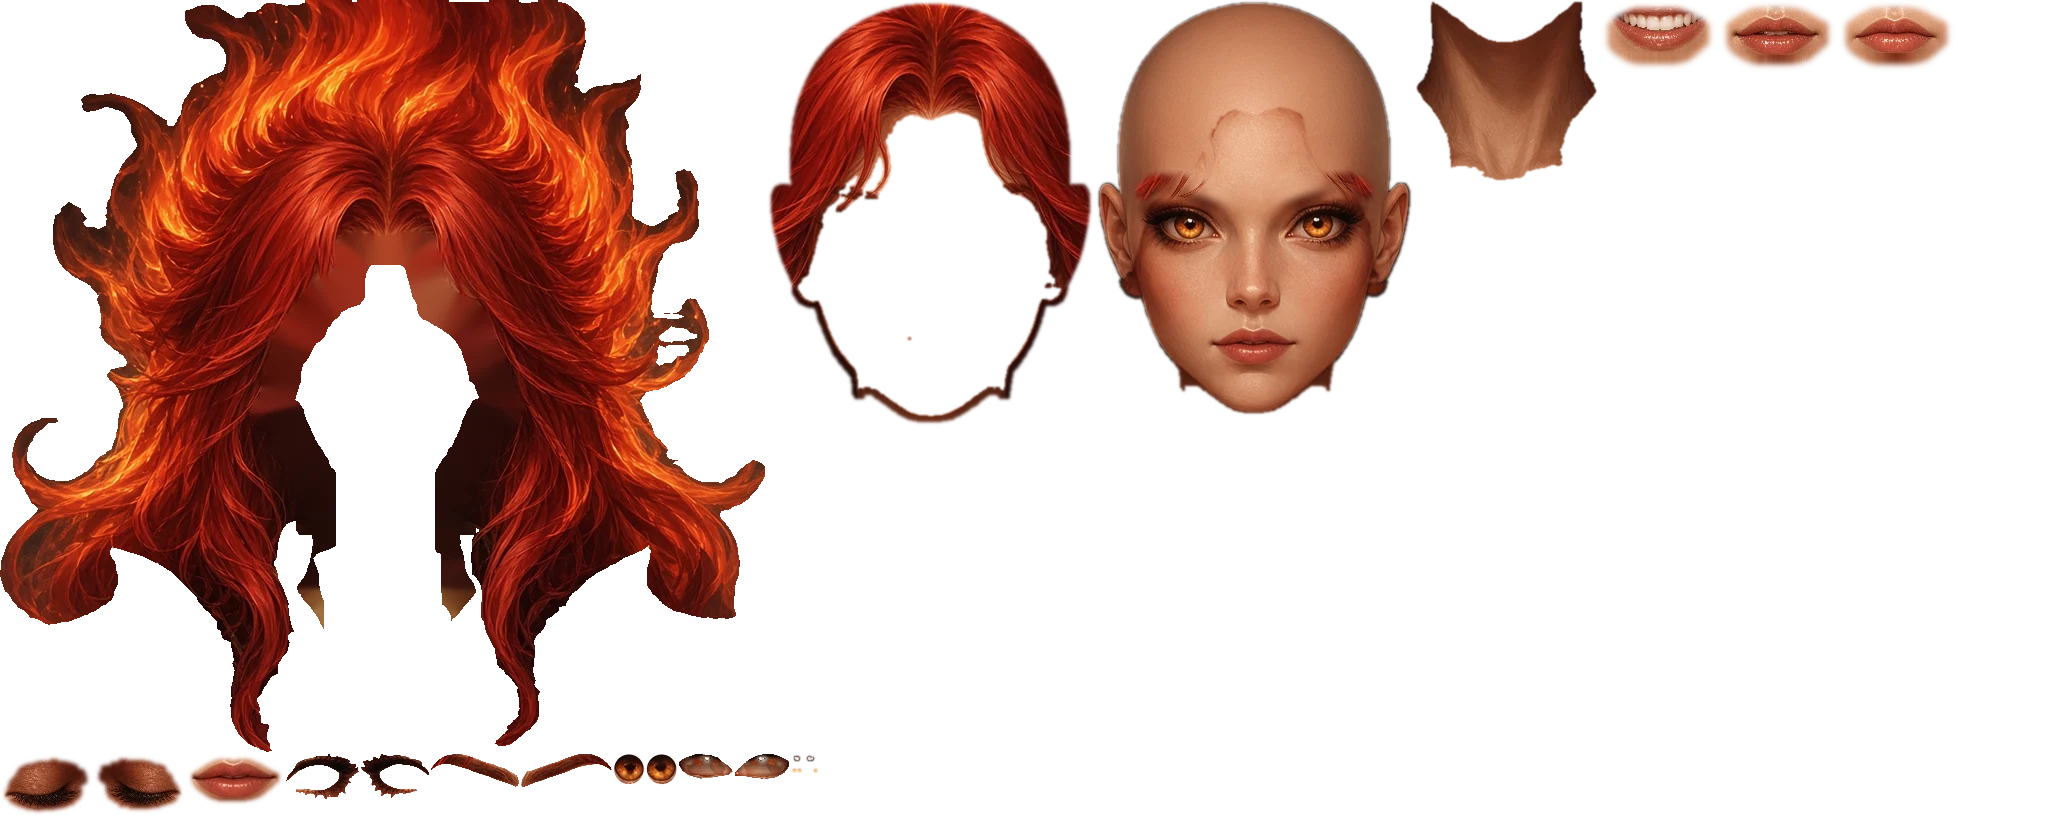
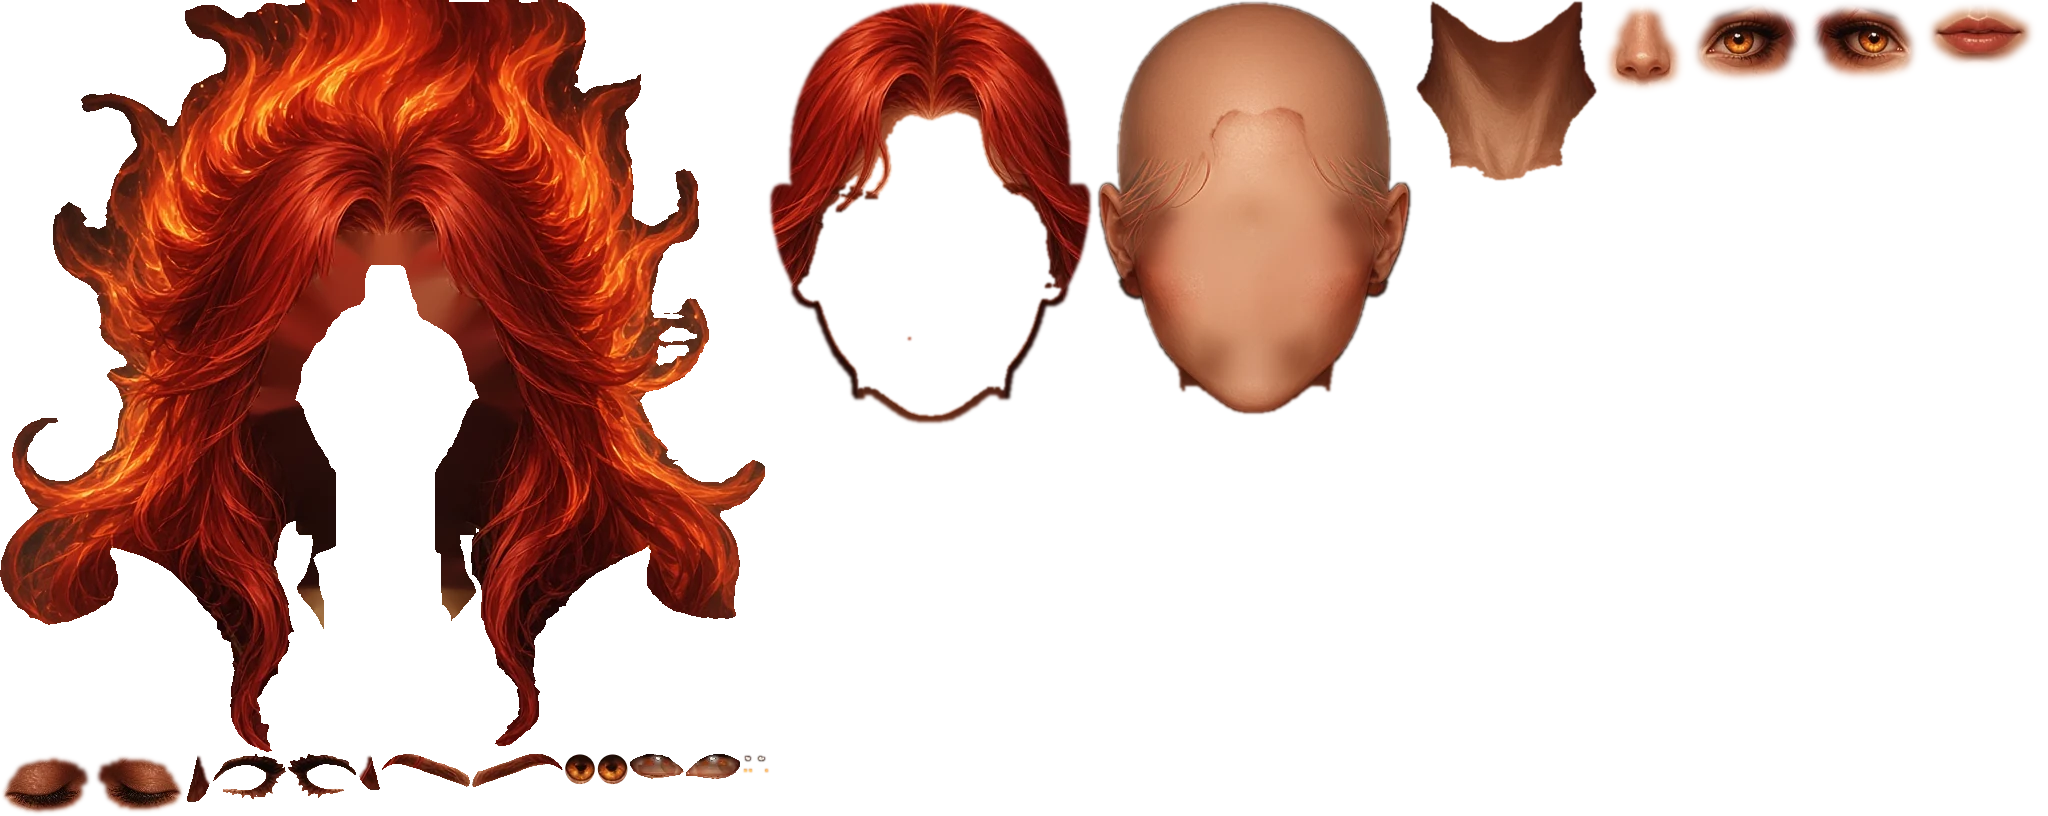
Лина: поворот головы цельными частями (параллакс, как в Rive) вместо растяжения

Changed region(s): [[0.7812, 0.0, 1.0, 0.1225], [0.5312, 0.2145, 0.6875, 0.4596], [0.0938, 0.9191, 0.4062, 1.0]]

diff --git a/demo/lina-live/index.html b/demo/lina-live/index.html
@@ -32,43 +32,34 @@
 const VS = `
 attribute vec2 aG;
 uniform vec4 uRamka, uUV;
-uniform float uTip;
-uniform vec2 uGol, uNos, uSdvig, uRes, uOff, uSway;
-uniform float uRoll, uScale, uFormaN, uRot, uSmirk, uFrown;
-uniform vec2 uUgol;      // уголок рта для ухмылки
-uniform vec4 uLico;      // центр, полуоси эллипса лица
-uniform vec2 uPivot, uRotC;
+uniform float uTip;           // 0 пласт, 1 часть головы, 2 передние волосы, 3 задние волосы, 5 рот
+uniform vec2 uGr, uSc, uScC;  // сдвиг группы при повороте, сжатие (дальний глаз) и его центр
+uniform vec2 uPre, uRotC;     // свой сдвиг до группы (взгляд радужки, подъём брови) и поворот брови
+uniform float uRot, uRoll, uScale, uSmirk, uFrown;
+uniform vec2 uRes, uOff, uPivot, uSway, uUgol;
 varying vec2 vUV, vP;
-float forma(vec2 p) {
-  vec2 d = (p - uLico.xy) / uLico.zw;
-  float r2 = dot(d, d);
-  return (pow(1. - min(r2, 1.), 2.) + .35 * pow(1. - min(r2 / 2.56, 1.), 2.)) / uFormaN;
-}
 vec2 povernut(vec2 p, vec2 c, float a) { float s = sin(a), k = cos(a); vec2 d = p - c; return c + vec2(d.x * k - d.y * s, d.x * s + d.y * k); }
 void main() {
   vec2 P = mix(uRamka.xy, uRamka.zw, aG);
-  vec2 Q = P;
-  if (uTip > .5 && uTip < 1.5) {                    // поверхность головы и всё, что на ней
-    vec2 du = P - uUgol;                            // ухмылка: уголок рта и щека над ним тянутся вверх — те же пиксели, без вклейки
-    Q += uSmirk * vec2(-3., -7.) * exp(-dot(du, du) / (2. * 15. * 15.));
-    vec2 d1 = P - vec2(867., 477.), d2 = P - vec2(945., 475.);   // злость: оба уголка вниз
-    Q += uFrown * vec2(1.5, 4.) * exp(-dot(d1, d1) / (2. * 13. * 13.)) + uFrown * vec2(-1.5, 4.) * exp(-dot(d2, d2) / (2. * 13. * 13.));
-    Q += forma(P) * vec2(uNos.x * uGol.x, uNos.y * uGol.y) + vec2(uGol.x * 3., uGol.y * 2.);
-    Q = povernut(Q, uPivot, uRoll);
-  } else if (uTip > 1.5 && uTip < 2.5) {            // передние пряди лежат на голове — двигаются как её поверхность (иначе
-    // из-под них выглядывает край черепа); ниже подбородка слабее, концы качаются
-    float pad = 1. - clamp((P.y - 470.) / 300., 0., .65);
-    Q += pad * (forma(P) * vec2(uNos.x * uGol.x, uNos.y * uGol.y) + vec2(uGol.x * 3., uGol.y * 2.));
-    Q = mix(Q, povernut(Q, uPivot, uRoll), pad);
-    Q.x += uSway.x * clamp((P.y - 330.) / 420., 0., 1.);
-  } else if (uTip > 2.5 && uTip < 3.5) {            // задние волосы: чуть в обратную сторону, концы качаются позже
-    Q += vec2(-uNos.x * .22 * uGol.x, -uNos.y * .12 * uGol.y);
-    Q.x += uSway.y * clamp((P.y - 330.) / 420., 0., 1.);
-  } else if (uTip > 3.5 && uTip < 4.5) {            // шея: сверху за головой, к ключицам сходит на нет
-    float v = 1. - clamp((P.y - 500.) / 170., 0., 1.);
-    Q += v * vec2(uNos.x * .14 * uGol.x + uGol.x * 2., uNos.y * .1 * uGol.y + uGol.y * 1.5);
+  vec2 Q = povernut(P + uPre, uRotC, uRot);
+  if (uTip > 4.5) {                                  // рот: ухмылка (один уголок вверх) и злость (оба вниз) — только губы
+    vec2 du = P - uUgol, d1 = P - vec2(867., 477.), d2 = P - vec2(945., 475.);
+    Q += uSmirk * vec2(-3., -6.) * exp(-dot(du, du) / (2. * 13. * 13.));
+    Q += uFrown * (vec2(1.5, 3.5) * exp(-dot(d1, d1) / (2. * 12. * 12.)) + vec2(-1.5, 3.5) * exp(-dot(d2, d2) / (2. * 12. * 12.)));
   }
-  Q = povernut(Q, uRotC, uRot) + uSdvig;            // своя доля части: взгляд радужки, подъём и наклон брови
+  Q = uScC + (Q - uScC) * uSc;                       // цельный кусок: только сдвиг и сжатие, без растяжения
+  float pad = 1.;
+  if (uTip > 1.5 && uTip < 2.5) {                    // передние пряди: у лица со всей головой, концы ниже плеч — слабее и качаются
+    pad = 1. - clamp((P.y - 470.) / 300., 0., .7);
+    Q += uGr * pad;
+    Q.x += uSway.x * clamp((P.y - 330.) / 420., 0., 1.);
+  } else if (uTip > 2.5 && uTip < 3.5) {
+    Q += uGr;
+    Q.x += uSway.y * clamp((P.y - 330.) / 420., 0., 1.);
+  } else {
+    Q += uGr;
+  }
+  if (uTip > .5) Q = povernut(Q, uPivot, uRoll * pad);
   vP = P;
   vUV = mix(uUV.xy, uUV.zw, aG);
   vec2 s = Q * uScale + uOff;
@@ -83,7 +74,7 @@ varying vec2 vUV, vP;
 void main() {
   vec4 c = texture2D(uAtlas, vUV) * uA;
   if (uKlip > .5) {                                 // радужка и блик только внутри яблока глаза
-    vec2 p = vP - uKlipSdvig;
+    vec2 p = vP + uKlipSdvig;                       // точка яблока под этой точкой радужки
     vec2 t = (p - uRamkaK.xy) / (uRamkaK.zw - uRamkaK.xy);
     float a = (t.x < 0. || t.y < 0. || t.x > 1. || t.y > 1.) ? 0. : texture2D(uAtlas, mix(uUVK.xy, uUVK.zw, t)).a;
     c *= a;
@@ -207,7 +198,7 @@ async function start() {
   const [AW, AH] = rig.atlas, L = rig.lico;
   const sloj = n => rig.sloi[n];
   const uv = r => [r.uv[0] / AW, r.uv[1] / AH, (r.uv[0] + r.uv[2]) / AW, (r.uv[1] + r.uv[3]) / AH];
-  const formaN = (() => { const d = [(L.nos[0] - L.c[0]) / L.os[0], (L.nos[1] - L.c[1]) / L.os[1]], r2 = d[0] ** 2 + d[1] ** 2;
+  const formaN0 = (() => { const d = [(L.nos[0] - L.c[0]) / L.os[0], (L.nos[1] - L.c[1]) / L.os[1]], r2 = d[0] ** 2 + d[1] ** 2;
     return (1 - Math.min(r2, 1)) ** 2 + .35 * (1 - Math.min(r2 / 2.56, 1)) ** 2; })();
   const MELK = setka(6), KRUP = setka(40), FULL = setka(1);
   const TIP = { volosy_zad: 3, sheya: 4, volosy_pered: 2 };                    // остальное — поверхность головы (1)
@@ -252,18 +243,25 @@ async function start() {
   const pruzh = (x, v, c, K, z, dt) => { v += ((c - x) * K - v * 2 * Math.sqrt(K) * z) * dt; return [x + v * dt, v]; };
   const t0 = performance.now() / 1000; let prev = t0;
 
-  function risovat(r, o) {                           // один слой: сетка, деформация, обрезка, веко
+  function risovat(r, o) {                           // один слой: цельный кусок со сдвигом группы, обрезка, веко
     gl.uniform4f(S.u('uRamka'), ...r.ramka); gl.uniform4f(S.u('uUV'), ...uv(r));
     gl.uniform1f(S.u('uTip'), o.tip); gl.uniform1f(S.u('uA'), o.a ?? 1);
-    gl.uniform2f(S.u('uSdvig'), ...(o.sdvig || [0, 0])); gl.uniform1f(S.u('uRot'), o.rot || 0); gl.uniform2f(S.u('uRotC'), ...(o.rotC || [0, 0]));
+    gl.uniform2f(S.u('uGr'), ...(o.gr || [0, 0])); gl.uniform2f(S.u('uSc'), ...(o.sc || [1, 1])); gl.uniform2f(S.u('uScC'), ...(o.scC || [0, 0]));
+    gl.uniform2f(S.u('uPre'), ...(o.pre || [0, 0])); gl.uniform1f(S.u('uRot'), o.rot || 0); gl.uniform2f(S.u('uRotC'), ...(o.rotC || [0, 0]));
     gl.uniform1f(S.u('uKlip'), o.klip ? 1 : 0);
-    if (o.klip) { gl.uniform4f(S.u('uRamkaK'), ...o.klip.ramka); gl.uniform4f(S.u('uUVK'), ...uv(o.klip)); gl.uniform2f(S.u('uKlipSdvig'), ...(o.sdvig || [0, 0])); }
+    if (o.klip) { gl.uniform4f(S.u('uRamkaK'), ...o.klip.ramka); gl.uniform4f(S.u('uUVK'), ...uv(o.klip)); gl.uniform2f(S.u('uKlipSdvig'), ...(o.pre || [0, 0])); }
     gl.uniform1f(S.u('uVeko'), o.veko || 0);
     if (o.veko) { const g = o.glaz.ramka; gl.uniform4f(S.u('uGlazE'), (g[0] + g[2]) / 2, (g[1] + g[3]) / 2, (g[2] - g[0]) / 2, (g[3] - g[1]) / 2); }
     const m = o.setka || MELK;
     gl.bindBuffer(gl.ARRAY_BUFFER, m.buf); gl.vertexAttribPointer(0, 2, gl.FLOAT, false, 0, 0);
     gl.drawArrays(gl.TRIANGLES, 0, m.n);
   }
+  // поворот головы как в примере: каждая часть сдвигается целиком — ближние к зрителю сильнее, дальние слабее или навстречу
+  // [px при полном повороте вбок, px при полном наклоне вверх/вниз]
+  const PARALLAKS = { volosy_zad: [-6, -3], sheya: [1.5, 1], uho: [-2, -2], plastina: [6, 5], glaz: [14, 10], nos: [21, 15],
+                      rot: [15, 12], brov: [13, 8], volosy_pered: [8, 5] };
+  const gruppa = n => n.startsWith('uho') ? 'uho' : /^(glaz|yabloko|raduzhka|blik|resnicy|zakr)_/.test(n) ? 'glaz' : n.startsWith('brov') ? 'brov' : n;
+  const centr = r => [(r.ramka[0] + r.ramka[2]) / 2, (r.ramka[1] + r.ramka[3]) / 2];
 
   function frame() {
     const now = performance.now() / 1000, dt = Math.min(.033, now - prev), t = now - t0; prev = now;
@@ -307,38 +305,40 @@ async function start() {
     gl.useProgram(S.p); gl.enableVertexAttribArray(0);
     gl.enable(gl.BLEND); gl.blendFunc(gl.ONE, gl.ONE_MINUS_SRC_ALPHA);
     gl.uniform2f(S.u('uRes'), cv.width, cv.height); gl.uniform2f(S.u('uOff'), ox, oy); gl.uniform1f(S.u('uScale'), s);
-    gl.uniform2f(S.u('uGol'), P.ax, P.ay); gl.uniform2f(S.u('uNos'), 20, 14); gl.uniform1f(S.u('uFormaN'), formaN);
-    gl.uniform4f(S.u('uLico'), L.c[0], L.c[1], L.os[0], L.os[1]); gl.uniform2f(S.u('uPivot'), ...L.sheya);
-    gl.uniform1f(S.u('uRoll'), -P.ax * .03); gl.uniform2f(S.u('uSway'), st.sw1, st.sw2);
+    gl.uniform2f(S.u('uPivot'), ...L.sheya);
+    gl.uniform1f(S.u('uRoll'), -P.ax * .035); gl.uniform2f(S.u('uSway'), st.sw1, st.sw2);
     gl.activeTexture(gl.TEXTURE0); gl.bindTexture(gl.TEXTURE_2D, plast);
     gl.uniform1i(S.u('uAtlas'), 0);
     risovat({ ramka: [0, 0, 1792, 1008], uv: [0, 0, AW, AH] }, { tip: 0, setka: FULL });    // пласт: uv на весь кадр
     gl.bindTexture(gl.TEXTURE_2D, atlas);
-    const oo = cur * .35;
     gl.uniform1f(S.u('uSmirk'), Math.min(1, P.wink * 1.4) + P.cur * .3); gl.uniform2f(S.u('uUgol'), 867, 477);
     gl.uniform1f(S.u('uFrown'), P.angry);
     const brovUp = P.cur * 6, brovZlo = P.angry;
     const ochered = Object.entries(rig.sloi).sort((a, b) => a[1].z - b[1].z);
     for (const [n, r] of ochered) {
-      const tip = TIP[n] || 1, setka = (n.startsWith('volosy') || n === 'golova' || n === 'sheya') ? KRUP : MELK;
+      const g = gruppa(n), k = PARALLAKS[g] || [0, 0];
+      const gr = [k[0] * P.ax, k[1] * P.ay];
+      const tip = n === 'volosy_pered' ? 2 : n === 'volosy_zad' ? 3 : n === 'rot' ? 5 : 1;
+      const setka = n.startsWith('volosy') ? KRUP : MELK;
       const st2 = n.slice(-1);
+      const o = { tip, setka, gr };
+      if (g === 'glaz') {                              // дальний глаз чуть уже — так в примере выглядит поворот
+        const dal = st2 === 'p' ? Math.max(0, P.ax) : Math.max(0, -P.ax);
+        o.sc = [1 - .12 * dal, 1]; o.scC = centr(sloj('glaz_' + st2));
+      }
       if (n.startsWith('raduzhka') || n.startsWith('blik')) {
-        const g = n.startsWith('blik') ? [P.gx * .25, P.gy * .25] : [P.gx, P.gy];
-        risovat(r, { tip, setka, sdvig: g, klip: sloj('yabloko_' + st2) });
+        o.pre = n.startsWith('blik') ? [P.gx * .25, P.gy * .25] : [P.gx, P.gy];
+        o.klip = sloj('yabloko_' + st2);
+        risovat(r, o);
       } else if (n.startsWith('zakr')) {
-        const z = st2 === 'l' ? Math.max(P.blink, P.wink) : P.blink;   // прищур закрытым веком выглядел заплаткой — злость бровями и ртом
-        if (z > .002) risovat(r, { tip, setka, veko: z, glaz: sloj('yabloko_' + st2) });
-      } else if (n === 'guby') {
-        risovat(r, { tip, setka });
-      } else if (n.startsWith('rot_')) {
-        const w = n === 'rot_otkryt' ? oo : 0;   // улыбка и злость Grok выглядели вклейкой — ухмылка и злой рот деформацией
-        if (w > .002) risovat(r, { tip, setka, a: w });
+        const z = st2 === 'l' ? Math.max(P.blink, P.wink) : P.blink;
+        if (z > .002) risovat(r, { ...o, veko: z, glaz: sloj('yabloko_' + st2) });
       } else if (n.startsWith('brov')) {
-        const c = [(r.ramka[0] + r.ramka[2]) / 2, (r.ramka[1] + r.ramka[3]) / 2], vnutr = st2 === 'l' ? 1 : -1;
+        const vnutr = st2 === 'l' ? 1 : -1;
         const up = brovUp + (st2 === 'p' ? P.wink * 3 : -P.wink * 1.5) - brovZlo * 4.5;
-        risovat(r, { tip, setka, sdvig: [vnutr * brovZlo * 3.5, -up], rot: vnutr * brovZlo * .16, rotC: c });
+        risovat(r, { ...o, pre: [vnutr * brovZlo * 3.5, -up], rot: vnutr * brovZlo * .16, rotC: centr(r) });
       } else {
-        risovat(r, { tip, setka });
+        risovat(r, o);
       }
     }
     // ---- огонь, искры, свет — на экран
